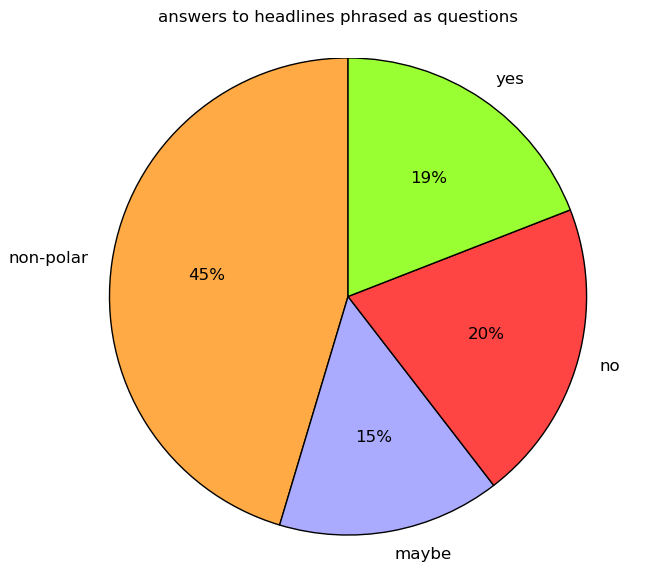
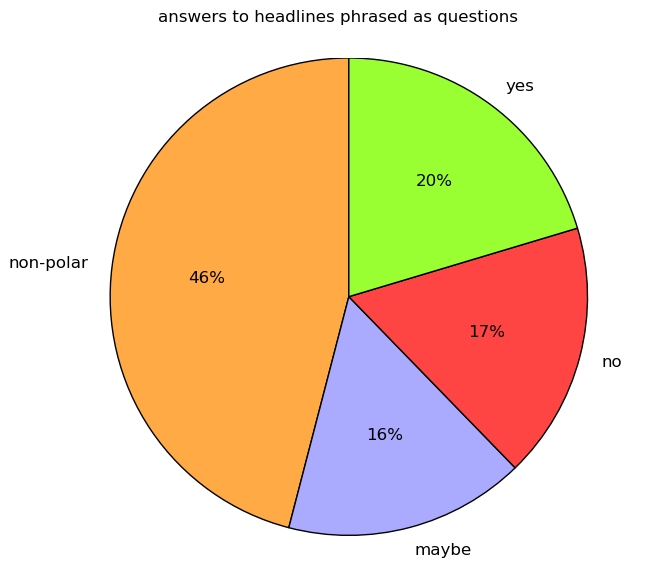
rewrote some stuff, threw out some stuff, updated a chart

diff --git a/_posts/2015-01-28-betteridges-law.md b/_posts/2015-01-28-betteridges-law.md
@@ -5,103 +5,89 @@ location: New York
 draft: true
 ---
 
-Betteridge's law of headlines states that "*[a]ny headline which ends
-in a question mark can be answered by the word no*". This "law" is of
-course no law - it is trivial to create a counterexample - but rather
-a tongue-in-cheek comment on poor journalism hiding behind dubious
-headlines.
-
-<!-- counterexample feels iffy. do em instead of hyphen. or parenthesis? -->
+Betteridge's law of headlines states that *any headline which ends in
+a question mark can be answered by the word no*. This "law" is of
+course no law -- it is trivial to create a counterexample -- but
+should rather be viewed as a tongue-in-cheek remark on how poor
+journalism sometimes hide behind dubious headlines.
 
 In this post we'll have a look at just how incorrect Betteridge's law
 is. Using the scripts in [this
 repository](https://github.com/matslina/betteridgeslaw), we have
 crawled 13 news sites for a total of 26000 headlines (2000 per site)
-and have tried to manually answer the 397 of them that ends in a
-question mark. Note that the data is the product of a single person
-doing their best to answer a ton of questions, so caveat lector and
-don't confuse this for science.
+and have tried to manually answer the 766 of them that end in a
+question mark.
+
+Caveat lector: the data presented in this post is the product of a
+single person trying to answer a large number of questions, many of
+which are subjective in their nature, so don't confuse this for
+science.
 
 Polar questions
 ---------------
 
-First of all, some questions just can't meaningfully be answered with
-"yes" or "no.  For instance, the answer to "what is brainfuck?" could
-be "an interesting programming language", but certainly not "yes" and
-certainly not "no". A *polar question*, on the other hand, is a
-question for which the answer *is* expected to be "yes" or "no".
+Some questions just can't meaningfully be answered with "yes" or
+"no". The BBC asks [why we value
+gold](http://www.bbc.com/news/magazine-25255957) and USA Today asks
+[what Facebook could have bought instead of acquiring WhatsApp for $16
+billion](http://www.usatoday.com/story/news/nation-now/2014/02/19/facebook-whatsapp-16-billion/5621721/).
+We can with confidence rule out both "yes" and "no" as valid answers
+for these questions, since the questions are not yes-no questions. A
+*polar question*, on the other hand, is a question for which the
+answer *is* expected to be "yes" or "no".
 
-<!-- perhaps give an example of a real non-polarheadline? -->
 <!-- explain the pie chart more clearly. should be clear that it's the 397 sample. -->
 
 ![polarity image](/img/betteridge_polarity_pie.png)
 
-By virtue of their non-polarity, 45% of our dubious headlines violate
-Betteridge's law: they are not yes-no questions, so the answer cannot
-be "no". The remaining 55% could of course all have the answer "no",
-which would make the law "mostly true", but more on that later. Let's
-have a look at a breakdown of polarity by source.
+Of the 766 headlines ending in question mark, roughly 46% are
+non-polar and therefore violate Betteridge's law. They are not yes-no
+questions, so the answer is not "no". We conclude that Betteridge's
+law is incorrect.
 
-![polarity image](/img/betteridge_polarity_stack.png)
-
-No news site really appears to stand out when it comes to the ratio of
-polar to non-polar questions but there are clear differences in the
-total number of headlines ending in question mark. Then again, our
-crawler is not all that polished, so there may be some bias introduced
-by how the headlines were collected.
-
-<!-- this paragraph should be split. first cover polarity ratio. then cover ratio of qmark hlines per source. -->
+But, we're not done yet. It could be that the remaining 54% all have
+the answer "no", which would make the law "mostly true". Is
+Betteridge's law mostly true?
 
 Yes / No / Maybe
-================
+----------------
 
-While the expected answer to a polar question is "yes" or "no", a
-large chunk of those in our sample are pretty hard to answer. For
-instance, the BBC asks if [India is the next university
+While the expected answer to a polar headline is either "yes" or "no",
+providing such an answer is not always a simple task.
+
+The BBC asks if [India is the next university
 superpower](http://www.bbc.com/news/business-12597815) but doesn't
-really define what "university superpower" means. It doesn't seem
-impossible that India would be that, whatever it is, but we can't
-really say if it's more likely than not. Hence, the answer will have
-to be "maybe".
+define what "university superpower" means. It doesn't seem impossible
+that India could become that, whatever it is, but we can't really say
+if it's more likely to happen than not. Hence, the answer will have to
+be "maybe".
 
-Similarly, on the 23rd of December, 2014, the Daily Mail asked if
-[Cathy Freeman's missing bodysuit has been
-found](http://www.dailymail.co.uk/sport/othersports/article-2885773/Cathy-Freeman-s-missing-bodysuit-Sydney-2000-Olympic-Games-anonymously-handed-original.html).
-While we will probably have an answer in the near future, a 4 minute
-session of web searching suggests that this has not been verified as
-of this writing. For now, our answer will have to be "maybe".
+The Daily Mail asks if [Cathy Freeman's missing bodysuit has been
+found](http://www.dailymail.co.uk/sport/othersports/article-2885773/Cathy-Freeman-s-missing-bodysuit-Sydney-2000-Olympic-Games-anonymously-handed-original.html). The
+article suggests that this question should be answered in the near
+future, but as of this writing we can't find any clear information on
+whether or not it has been. The answer remains "maybe".
+
+For the purpose of determining whether or not Betteridge's law is
+*mostly* true, we don't need answers for all headlines, just for the
+majority of them. We waded through the polar 56% of our total 766
+headlines and answered as many of them as we could.
 
 ![polarity image](/img/betteridge_answer_pie.png)
 
-So with the bulk of the polar questions answered, we're looking at
-roughly a 50-50 split between "yes" and "no". For completness sake,
-we'll also have a look at the breakdown of answers per source. Do keep
-in mind that the sample size is fairly small for some sources,
-especially Reuters and NY Daily News, so let's not jump to too many
-conclusions based on this data.
-
-
-<!-- this part feels a bit thin. perhaps mention that iterating on and researching maybes seem to maintain 50% split. guesstimate that it approaches 50-50. -->
-
-
-![polarity image](/img/betteridge_answer_stack.png)
-
-<!-- relevant here is that most are still close to 50-50, in spite of publications presumably being biased to/from my frame of mind. does that suggest that 50-50 split is correct? -->
-
-<!-- perhaps high ratio of 'maybe' is an indication of weaslyness? -->
-
+With 46% non-polar and 20% answered "yes", at least two thirds of our
+headline sample violates Betteridge's law. It cannot be "mostly
+correct" either.
 
 Conclusion
 ==========
 
-<!-- possibly chop this up as per above comment -->
-
 We already knew that Betteridge's law was incorrect. Now we know it
 even more. Additionally, we're going to go out on a limb here and
-guesstimate that most of the "maybe" answers can, given enough time
+guesstimate that the remaining "maybe" answers can, given enough time
 and effort, be turned into "yes" or "no" answers, and that these will
-be distributed roughly 50-50 as well. We conclude that "*roughly a
-quarter of all headlines which ends in a question mark can be answered
-by the word no.*"
+be distributed similarly to the 20:17 ratio of the fully
+answered. That would put the total ratio of "no" at 25%.
 
-<!-- at some point I need to mention that I'm not publishing the raw headlines and their answers coz copyright. but encourage others to redo the experiment. -->
+It appears that *roughly a quarter of all headlines which ends in
+question mark can be answered by the word no*.
